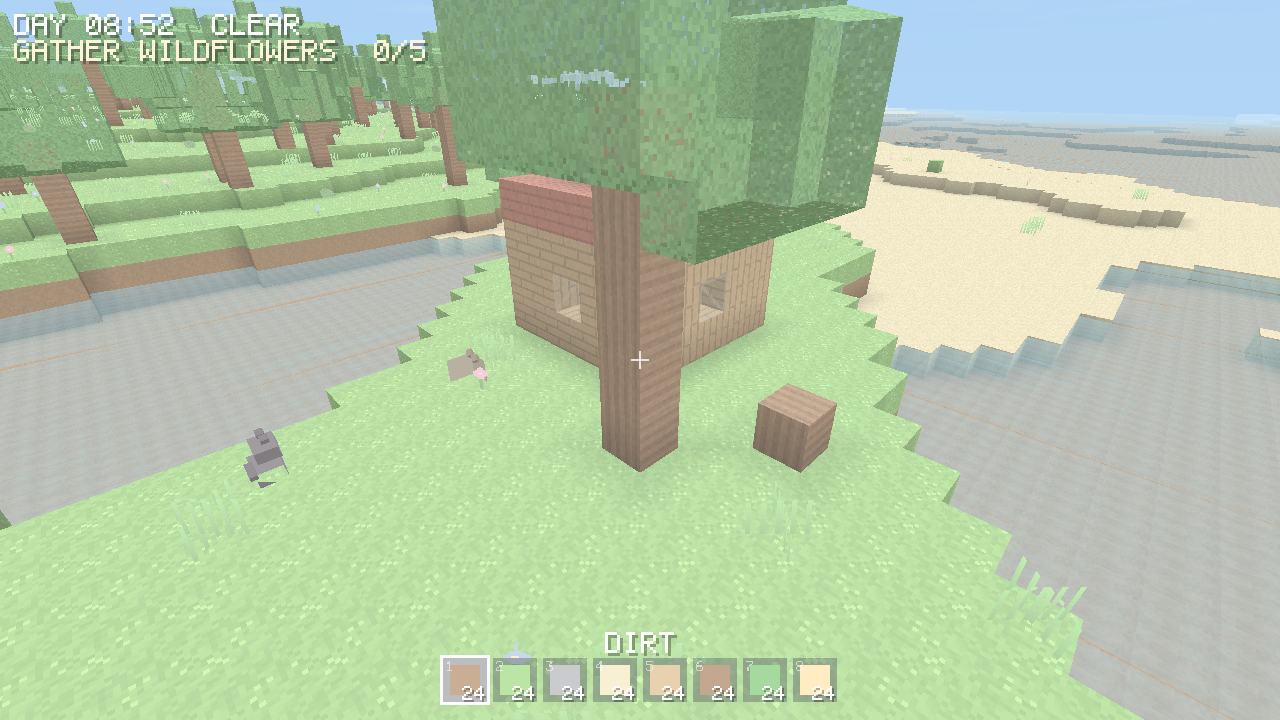
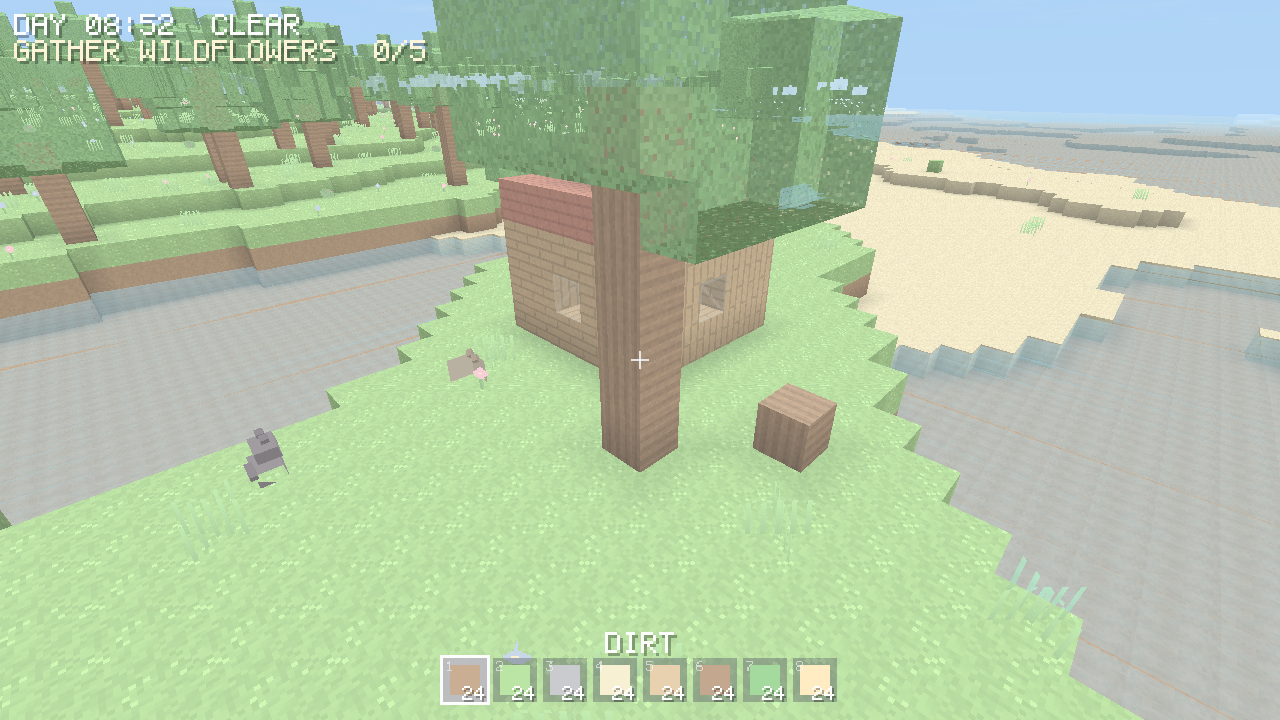
Polish: rain reads as streaks; denser precipitation
- Particles gained a vertical stretch factor; rain uses elongated streaks
  instead of dots and falls denser (cap raised to 1400) so a shower is clearly
  legible. Snow/petals/debris stay as soft puffs.

diff --git a/crates/game/src/particle.rs b/crates/game/src/particle.rs
@@ -14,6 +14,8 @@ struct Particle {
     life: f32,
     max_life: f32,
     size: f32,
+    /// Vertical elongation (1 = cube; >1 stretches into a streak, for rain).
+    stretch: f32,
     color: Color,
     /// Sway phase for fluttering petals (0 = no sway, e.g. debris).
     flutter: f32,
@@ -30,7 +32,7 @@ impl ParticleSystem {
         Self {
             particles: Vec::new(),
             rng: SplitMix64::new(seed ^ 0x9A7C_1EE),
-            max: 600,
+            max: 1400,
         }
     }
 
@@ -63,6 +65,7 @@ impl ParticleSystem {
                 life: 0.0,
                 max_life: 6.0 + self.rng.next_f32() * 3.0,
                 size: 0.12,
+                stretch: 1.0,
                 color: Color::rgb(246, 178, 212),
                 flutter: 1.0 + self.rng.next_f32(),
             });
@@ -72,7 +75,7 @@ impl ParticleSystem {
     /// Emit weather precipitation around the player: drifting snow or quick
     /// rain streaks falling from above.
     pub fn emit_weather(&mut self, around: Vec3, snow: bool, dt: f32) {
-        let rate = if snow { 26.0 } else { 60.0 };
+        let rate = if snow { 40.0 } else { 220.0 };
         let expected = rate * dt;
         let mut n = expected as i32;
         if self.rng.next_f32() < expected.fract() {
@@ -96,6 +99,7 @@ impl ParticleSystem {
                     life: 0.0,
                     max_life: 5.0 + self.rng.next_f32() * 2.0,
                     size: 0.08,
+                    stretch: 1.0,
                     color: Color::rgb(245, 248, 255),
                     flutter: 1.0 + self.rng.next_f32(),
                 });
@@ -105,8 +109,9 @@ impl ParticleSystem {
                     vel: Vec3::new(0.0, -16.0 - self.rng.next_f32() * 4.0, 0.0),
                     life: 0.0,
                     max_life: 1.2,
-                    size: 0.05,
-                    color: Color::rgb(170, 190, 220),
+                    size: 0.04,
+                    stretch: 7.0,
+                    color: Color::rgb(176, 196, 226),
                     flutter: 0.0,
                 });
             }
@@ -131,6 +136,7 @@ impl ParticleSystem {
                 life: 0.0,
                 max_life: 0.6 + self.rng.next_f32() * 0.4,
                 size: 0.1,
+                stretch: 1.0,
                 color,
                 flutter: 0.0,
             });
@@ -159,13 +165,14 @@ impl ParticleSystem {
         for p in &self.particles {
             let fade = (1.0 - p.life / p.max_life).clamp(0.0, 1.0);
             let s = p.size;
+            let sy = p.size * p.stretch;
             let c = [
                 p.color.r as f32 / 255.0,
                 p.color.g as f32 / 255.0,
                 p.color.b as f32 / 255.0,
                 fade,
             ];
-            append_quad_cube(&mut verts, &mut indices, p.pos, s, c, white_layer);
+            append_quad_cube(&mut verts, &mut indices, p.pos, s, sy, c, white_layer);
         }
         (verts, indices)
     }
@@ -177,16 +184,18 @@ fn append_quad_cube(
     indices: &mut Vec<u32>,
     pos: Vec3,
     s: f32,
+    sy: f32,
     color: [f32; 4],
     layer: u32,
 ) {
+    let h = sy; // vertical half-extent (streak length for rain)
     let faces: [([f32; 3], [Vec3; 4]); 6] = [
-        ([1.0, 0.0, 0.0], [Vec3::new(s, -s, -s), Vec3::new(s, -s, s), Vec3::new(s, s, s), Vec3::new(s, s, -s)]),
-        ([-1.0, 0.0, 0.0], [Vec3::new(-s, -s, s), Vec3::new(-s, -s, -s), Vec3::new(-s, s, -s), Vec3::new(-s, s, s)]),
-        ([0.0, 1.0, 0.0], [Vec3::new(-s, s, -s), Vec3::new(s, s, -s), Vec3::new(s, s, s), Vec3::new(-s, s, s)]),
-        ([0.0, -1.0, 0.0], [Vec3::new(-s, -s, s), Vec3::new(s, -s, s), Vec3::new(s, -s, -s), Vec3::new(-s, -s, -s)]),
-        ([0.0, 0.0, 1.0], [Vec3::new(s, -s, s), Vec3::new(-s, -s, s), Vec3::new(-s, s, s), Vec3::new(s, s, s)]),
-        ([0.0, 0.0, -1.0], [Vec3::new(-s, -s, -s), Vec3::new(s, -s, -s), Vec3::new(s, s, -s), Vec3::new(-s, s, -s)]),
+        ([1.0, 0.0, 0.0], [Vec3::new(s, -h, -s), Vec3::new(s, -h, s), Vec3::new(s, h, s), Vec3::new(s, h, -s)]),
+        ([-1.0, 0.0, 0.0], [Vec3::new(-s, -h, s), Vec3::new(-s, -h, -s), Vec3::new(-s, h, -s), Vec3::new(-s, h, s)]),
+        ([0.0, 1.0, 0.0], [Vec3::new(-s, h, -s), Vec3::new(s, h, -s), Vec3::new(s, h, s), Vec3::new(-s, h, s)]),
+        ([0.0, -1.0, 0.0], [Vec3::new(-s, -h, s), Vec3::new(s, -h, s), Vec3::new(s, -h, -s), Vec3::new(-s, -h, -s)]),
+        ([0.0, 0.0, 1.0], [Vec3::new(s, -h, s), Vec3::new(-s, -h, s), Vec3::new(-s, h, s), Vec3::new(s, h, s)]),
+        ([0.0, 0.0, -1.0], [Vec3::new(-s, -h, -s), Vec3::new(s, -h, -s), Vec3::new(s, h, -s), Vec3::new(-s, h, -s)]),
     ];
     for (normal, corners) in faces {
         let base = verts.len() as u32;
@@ -228,7 +237,7 @@ mod tests {
         for _ in 0..500 {
             ps.burst(Vec3::ZERO, Color::rgb(200, 100, 100), 20);
         }
-        assert!(ps.count() <= 600, "particle cap exceeded: {}", ps.count());
+        assert!(ps.count() <= 1400, "particle cap exceeded: {}", ps.count());
     }
 
     #[test]
